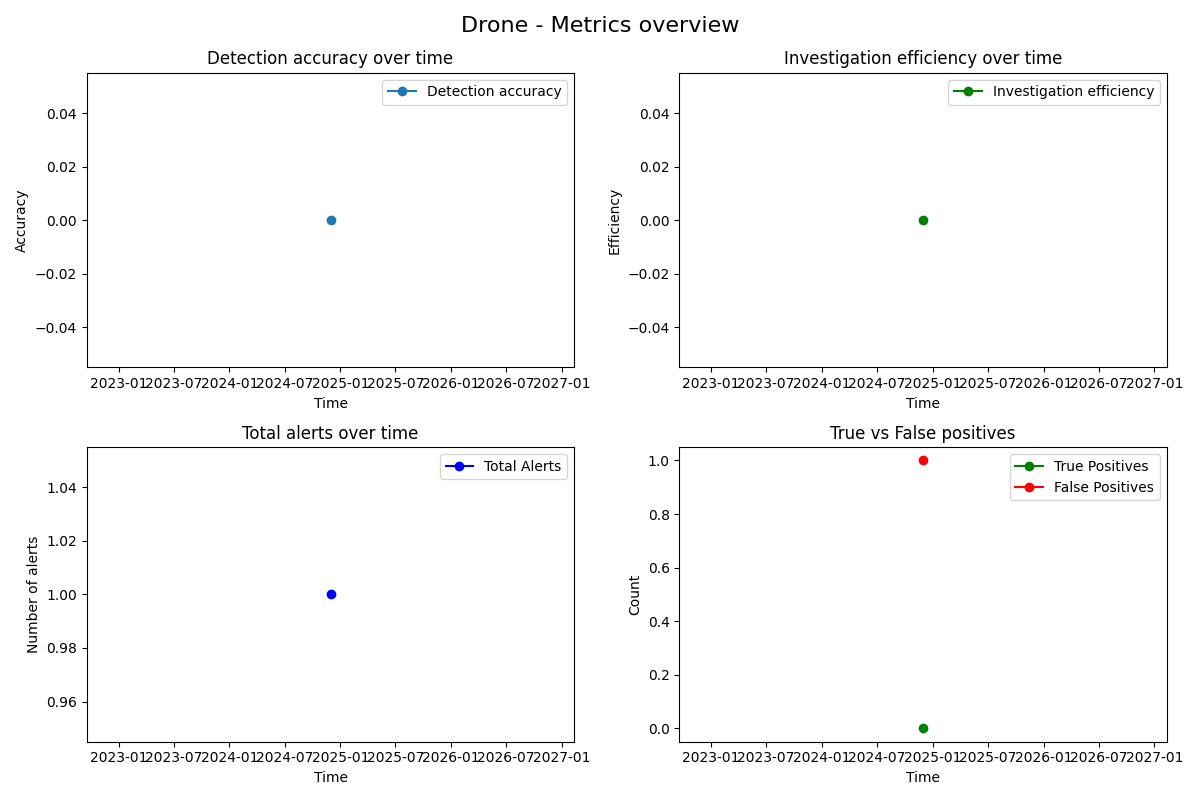
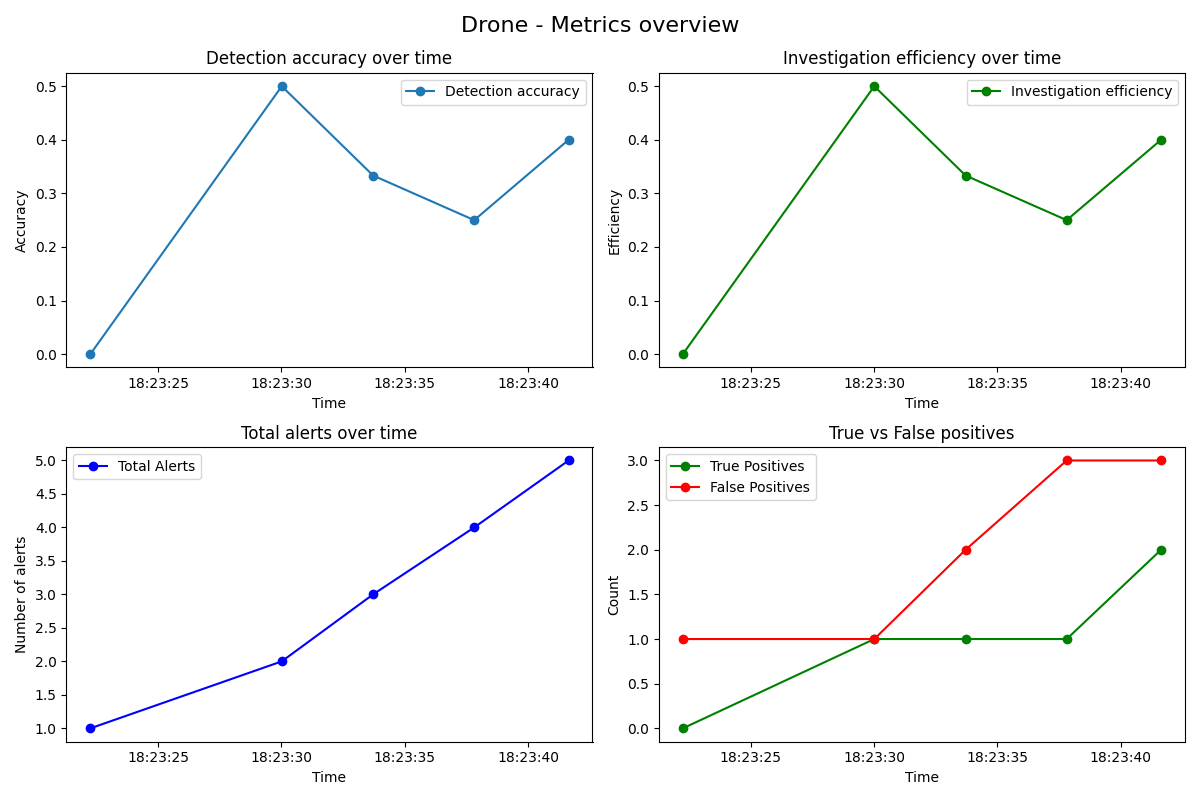
Success metrics implemented and working

diff --git a/Agents/Personnel.py b/Agents/Personnel.py
@@ -16,10 +16,10 @@ class Personnel:
         and initiating a drone investigation lap
         """
         print("[Personnel] Guard taking control of the drone for investigation")
-        
+
+        self.metrics_tracker.record_investigation(was_successful=True)
         self.drone_control = True
-        
-        # Define an investigation route that covers the warehouse area
+
         investigation_route = [
             {"x": 4, "y": 8, "z": 3},
             {"x": 14, "y": 8, "z": 15},
@@ -46,6 +46,7 @@ class Personnel:
     def handle_alert(self, websocket, alert_data):
         print(f"Handling alert: {alert_data}")
         threat_detected = self.assess_threat(alert_data["anomalies"])
+        self.metrics_tracker.record_investigation(was_successful=threat_detected)
 
         if threat_detected:
             print("ALERT! Scavenger detected. Sending alarm signal.")
@@ -64,7 +65,6 @@ class Personnel:
 
     def assess_threat(self, anomalies):
         for anomaly in anomalies:
-            # Check if the detected object is a scavenger with high confidence
             if anomaly["class"] == "thief" and anomaly["confidence"] > 0.8:
                 return True
         return False
@@ -79,7 +79,7 @@ class Personnel:
                 "position": detection.get("world_position", None),
                 "confidence": detection.get("confidence", 0)
             }
-            # Aquí puedes enviar la alerta al cliente (Unity) o procesarla como desees
+
             self.metrics_tracker.record_investigation(was_successful=True)
             await websocket.send(json.dumps(alert_message))
         else:
@@ -98,4 +98,3 @@ class Personnel:
            "report_data": report_data,
            "metrics": self.metrics_tracker.get_metrics()
        }))
-

diff --git a/successMetrics/metrics_tracker.py b/successMetrics/metrics_tracker.py
@@ -147,8 +147,6 @@ class SuccessMetricsTracker:
         
         plt.tight_layout()
         
-        
-        # Save report
         report_path = os.path.join(output_dir, f'{self.name}_metrics_report.png')
         plt.savefig(report_path)
         plt.close()
